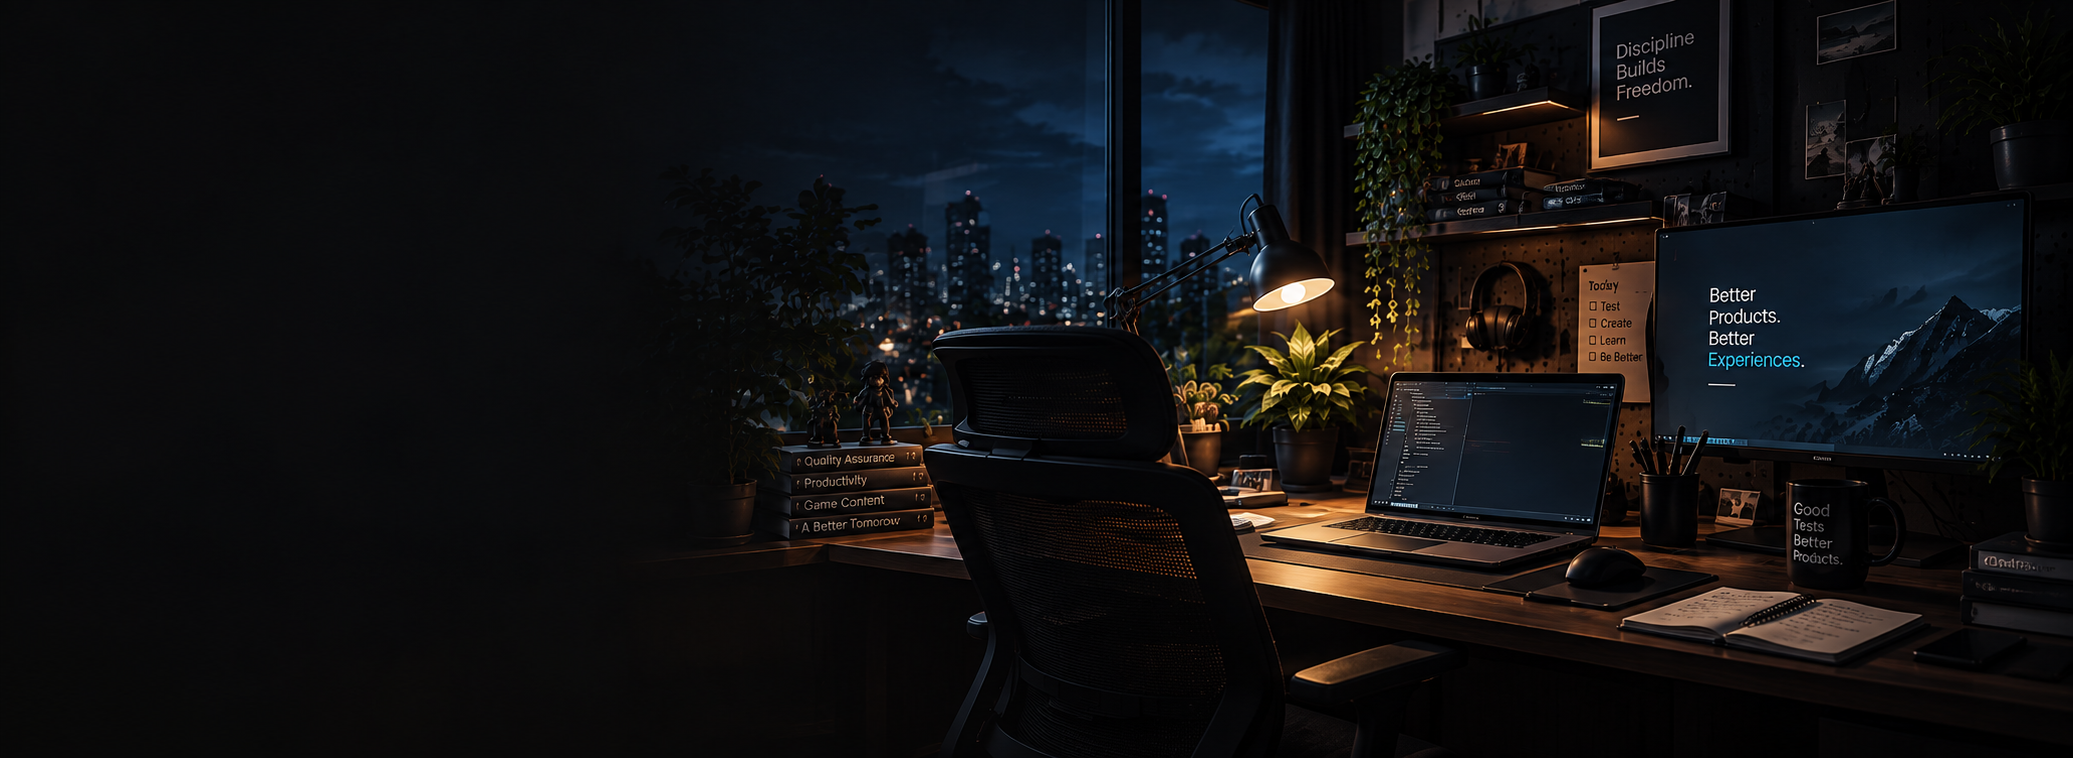
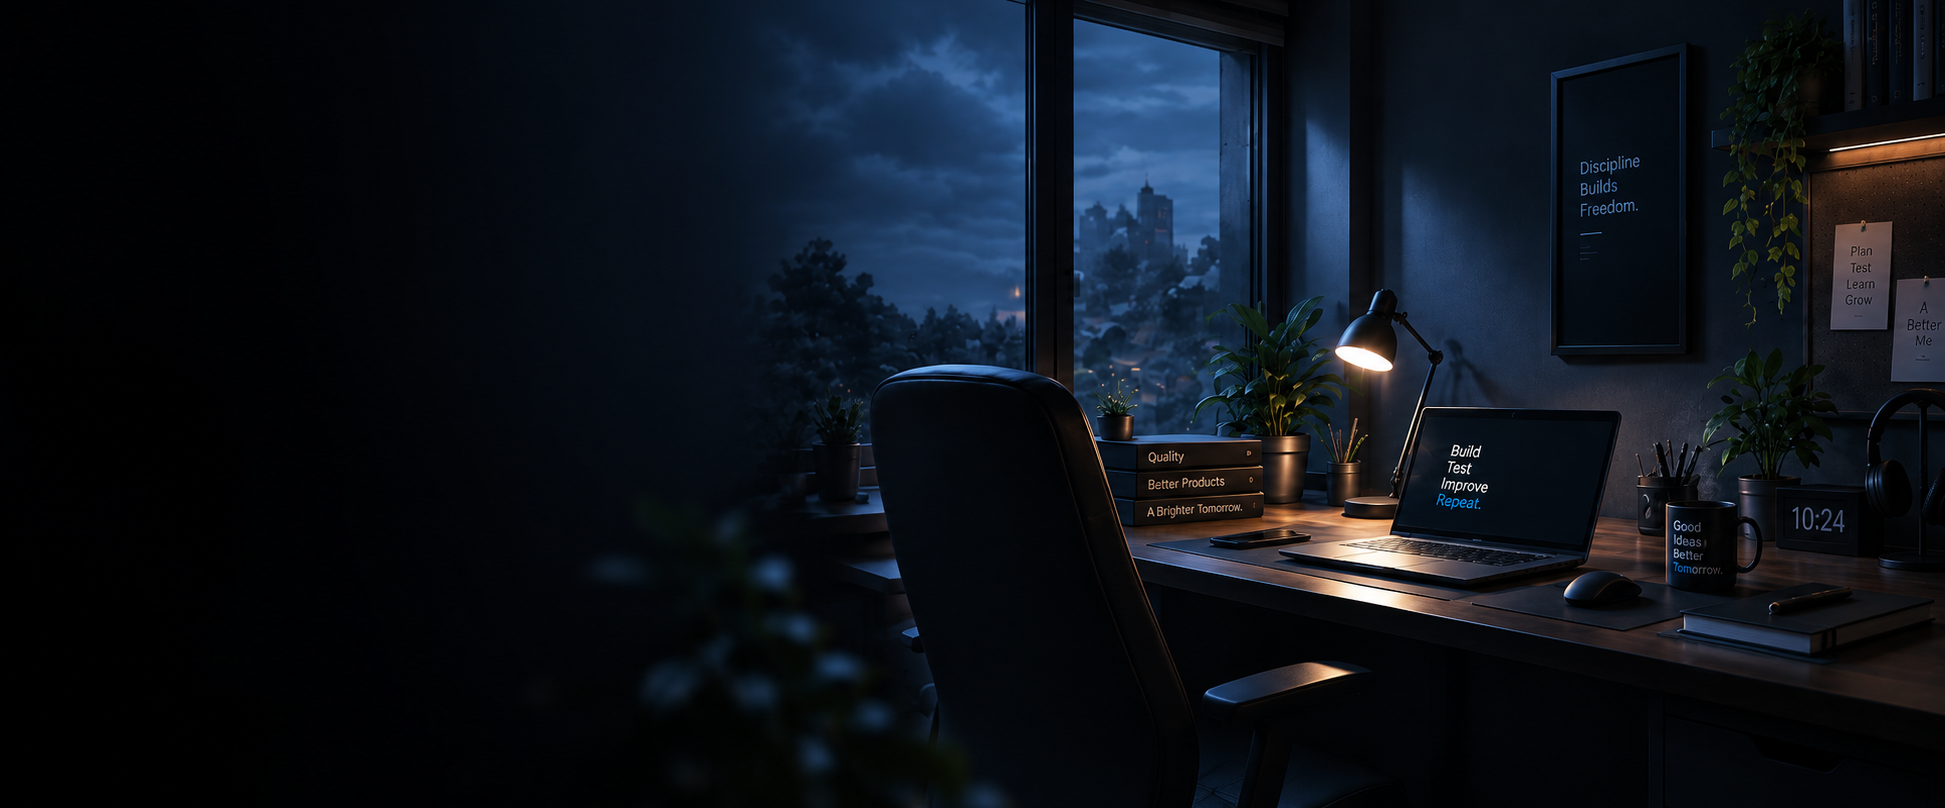
refactor: remove personal blue dot, contact response notice, and update hero workspace image

diff --git a/app/page.tsx b/app/page.tsx
@@ -511,7 +511,6 @@ export default function Home() {
               <div className="personal-intro-col">
                 <div>
                   <motion.div variants={v} className="personal-eyebrow-row">
-                    <span className="personal-eyebrow-dot" />
                     <span className="personal-eyebrow-text">PERSONAL</span>
                     <span className="personal-eyebrow-line" />
                   </motion.div>
@@ -928,11 +927,6 @@ export default function Home() {
                       </>
                     )}
                   </button>
-
-                  {/* Response / help text */}
-                  <p className="contact-form-help-text">
-                    Saya akan berusaha membalas secepat mungkin. Terima kasih! ✨
-                  </p>
                 </form>
               </motion.div>
 
